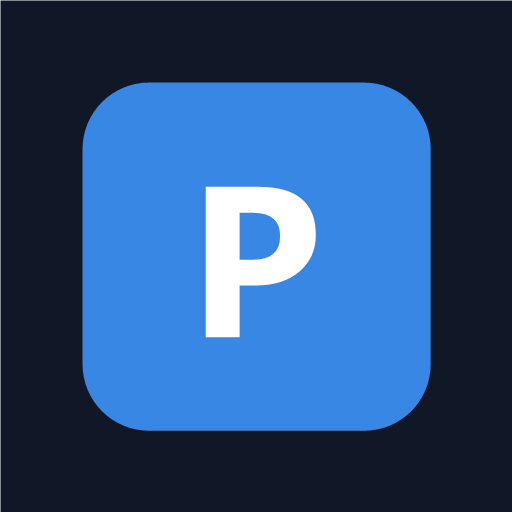
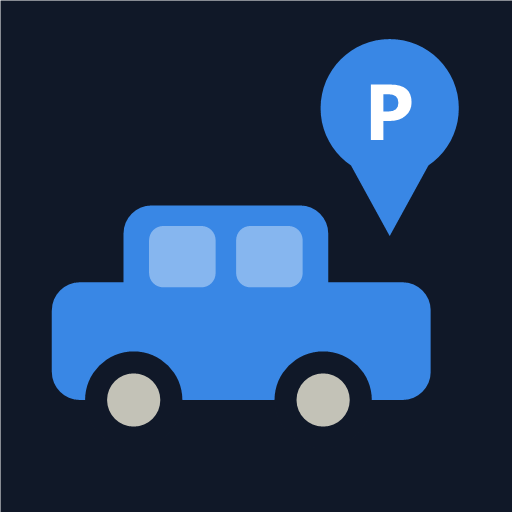
更換圖示：側面小車 + 右上定位圖釘 P
三種尺寸同步更新，快取版本升至 v2。

diff --git a/sw.js b/sw.js
@@ -1,5 +1,5 @@
 /* 停車定位 Service Worker — 離線快取 */
-const CACHE = 'parking-v1';
+const CACHE = 'parking-v2';
 const PRECACHE = [
   './',
   './index.html',
